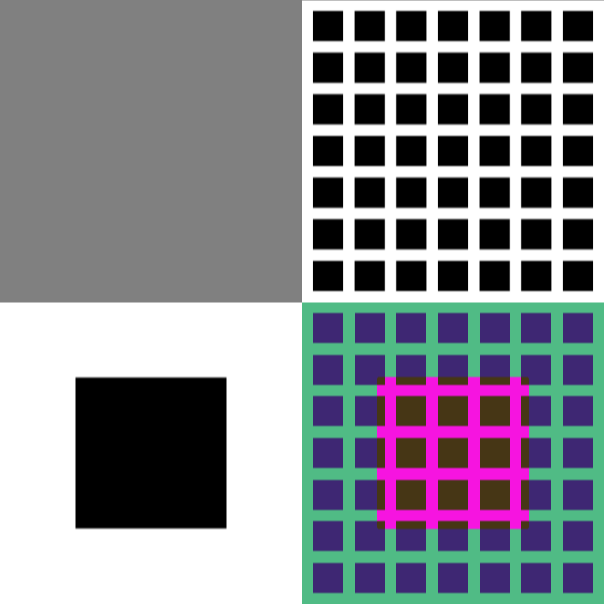
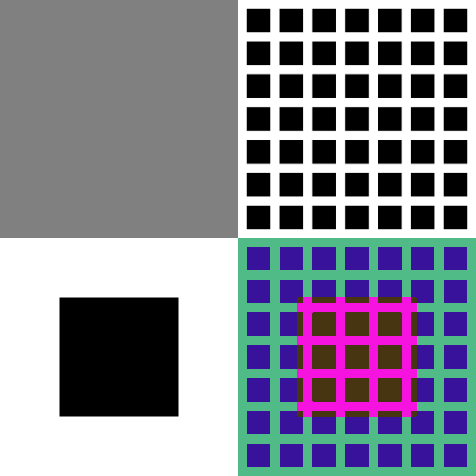
image export

diff --git a/sketch.js b/sketch.js
@@ -1,5 +1,4 @@
-var hgLayer, buLayer, stimLayer;
-var hgArray, breakupArray, stimArray;
+var hgLayer, buLayer, stimLayer, wireframeLayer;
 var stimSize;
 var s1, s2, b1, b2;
 var colorChangeMode;
@@ -29,6 +28,11 @@ function initialize() {
   buLayer.noSmooth();
   buLayer.rectMode(CENTER);
 
+  wireframeLayer = createGraphics(stimSize, stimSize);
+  wireframeLayer.colorMode(RGB, 1);
+  wireframeLayer.noSmooth();
+  wireframeLayer.rectMode(CENTER);
+
   stimLayer = createGraphics(stimSize, stimSize);
   stimLayer.colorMode(RGB, 1);
   stimLayer.noSmooth();
@@ -39,6 +43,35 @@ function initialize() {
   b1 = color(0);
   b2 = color(0);
   colorChangeMode = 0;
+
+  hgLayer.background(1);
+  drawHermannGridToBuffer(7, 1 / 3, stimSize, color(0), color(1), color(1), stimSize * 0.5, stimSize * 0.5, true, hgLayer);
+  hgLayer.loadPixels();
+
+  buLayer.background(1);
+  buLayer.fill(0);
+  buLayer.rect(stimSize * 0.5, stimSize * 0.5, stimSize * 0.5, stimSize * 0.5);
+  buLayer.loadPixels();
+
+  wireframeLayer.background(0.5);
+  var hgEdges = edgedetection(hgLayer);
+  for (var i = 0; i < hgEdges.length; i++) {
+    for (var j = 0; j < hgEdges[i].length; j++) {
+      if (hgEdges[i][j] != 0.5) {
+        wireframeLayer.set(i, j, color(0, 1, 1));
+      }
+    }
+  }
+  wireframeLayer.updatePixels();
+  var buEdges = edgedetection(buLayer);
+  for (var i = 0; i < buEdges.length; i++) {
+    for (var j = 0; j < buEdges[i].length; j++) {
+      if (buEdges[i][j] != 0.5) {
+        wireframeLayer.set(i, j, color(1 / 3, 1, 1));
+      }
+    }
+  }
+  wireframeLayer.updatePixels();
 }
 
 function windowResized() {
@@ -49,26 +82,15 @@ function windowResized() {
 }
 
 function calculateSizes() {
-  stimSize = round(min(width, height) * 0.3);
+  stimSize = round(min(width, height) * 0.45);
 }
 
 function draw() {
   background(0.5);
-
-  hgLayer.background(1);
-  drawHermannGridToBuffer(7, 1 / 3, stimSize, color(0), color(1), color(1), stimSize * 0.5, stimSize * 0.5, true, hgLayer);
-  hgLayer.loadPixels();
-
-  buLayer.background(1);
-  buLayer.fill(0);
-  buLayer.noStroke();
-  buLayer.rect(stimSize * 0.5, stimSize * 0.5, stimSize * 0.5, stimSize * 0.5);
-  buLayer.loadPixels();
-
   stimLayer.background(0.5);
 
-  //street color isoluminant variants
   if (colorChangeMode == 1) {
+    //street color isoluminant variants
     var s = 1 / 3;
 
     var r2fix = 0.2;
@@ -95,7 +117,6 @@ function draw() {
     noStroke();
   }
   else if (colorChangeMode == 2) {
-
     //block color isoluminant variants
     var b = 2 / 3;
 
@@ -148,9 +169,10 @@ function draw() {
   }
   stimLayer.updatePixels();
 
-  image(hgLayer, width * 0.5 - stimSize * 0.5, height * 0.5 - stimSize * 0.5 - stimSize);
-  image(buLayer, width * 0.5 - stimSize * 0.5 - stimSize, height * 0.5 - stimSize * 0.5);
-  image(stimLayer, width * 0.5 - stimSize * 0.5, height * 0.5 - stimSize * 0.5);
+  image(buLayer, width * 0.5, height * 0.5 - stimSize);
+  image(wireframeLayer, width * 0.5 - stimSize, height * 0.5 - stimSize);
+  image(hgLayer, width * 0.5 - stimSize, height * 0.5);
+  image(stimLayer, width * 0.5, height * 0.5);
 }
 
 function keyPressed() {
@@ -161,8 +183,77 @@ function keyPressed() {
 
   if (key == 'e' || key == 'E') {
     loadPixels();
-    get(width * 0.5 - stimSize * 0.5 - stimSize, height * 0.5 - stimSize * 0.5 - stimSize, stimSize * 2, stimSize * 2).save("isoluminant_stimulus", "png")
+    get(width * 0.5 - stimSize, height * 0.5 - stimSize, stimSize * 2, stimSize * 2).save("isoluminant_stimulus", "png")
   }
+}
+
+function edgedetection(buffer) {
+  var convolvedX = convolve(pixelArrax2imageArray(buffer), [[-1, 0, 1], [-2, 0, 2], [-1, 0, 1]]);
+  var convolvedY = convolve(pixelArrax2imageArray(buffer), [[-1, -2, -1], [0, 0, 0], [1, 2, 1]]);
+
+  var edgeArray = [];
+  for (var i = 0; i < convolvedX.length; i++) {
+    edgeArray[i] = [];
+    for (var j = 0; j < convolvedY.length; j++) {
+      if ((convolvedX[i][j] + convolvedY[i][j]) / 2 != 0.5) {
+        edgeArray[i][j] = 1;
+      }
+      else {
+        edgeArray[i][j] = 0.5;
+      }
+    }
+  }
+
+  return edgeArray;
+}
+
+function pixelArrax2imageArray(buffer) {
+  buffer.loadPixels();
+  var imageArray = [];
+
+  for (var i = 0; i < buffer.width; i++) {
+    imageArray[i] = [];
+    for (var j = 0; j < buffer.width; j++) {
+      imageArray[i][j] = round(buffer.pixels[4 * (i + buffer.width * j) + 0] / 255);
+    }
+  }
+
+  return imageArray;
+}
+
+function convolve(imageArray, convolutionArray) {
+  var convolved = [];
+
+  var maxSum = 1;
+  var minSum = 0;
+  for (var i = 1; i < imageArray.length - 1; i++) {
+    convolved[i - 1] = [];
+    for (var j = 1; j < imageArray[i].length - 1; j++) {
+      var sum = 0;
+      for (var k = 0; k < 3; k++) {
+        for (var l = 0; l < 3; l++) {
+          sum += imageArray[i + k - 1][j + l - 1] * convolutionArray[k][l];
+        }
+      }
+      convolved[i - 1][j - 1] = sum;
+      if (maxSum < sum) {
+        maxSum = sum;
+      }
+      if (sum < minSum) {
+        minSum = sum;
+      }
+    }
+  }
+
+  var normalized = [];
+  for (var i = 0; i < convolved.length; i++) {
+    normalized[i] = [];
+    for (var j = 0; j < convolved[i].length; j++) {
+      normalized[i][j] = map(convolved[i][j], minSum, maxSum, 0, 1);
+    }
+  }
+
+  return normalized;
 }
 
 function rgb2hsb(rgbArray) {
@@ -258,6 +349,7 @@ function drawHermannGridToBuffer(n, r, gS, bC, vC, hC, x, y, hOnV, buffer) {
       buffer.endShape(CLOSE);
     }
   }
+
 
   buffer.fill(hC);
   buffer.stroke(hC);
